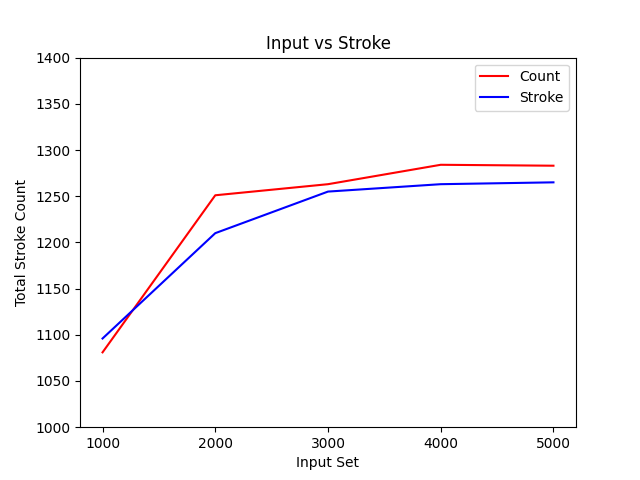
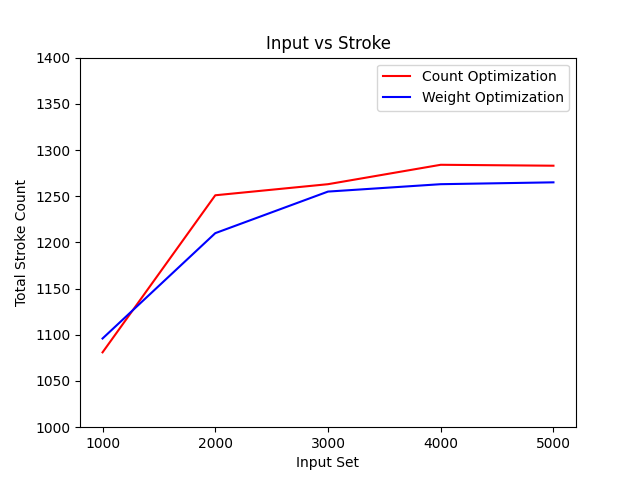
graph input vs missing rad - update input stroke label

Changed region(s): [[0.6562, 0.125, 0.875, 0.2188], [0.5938, 0.1562, 0.625, 0.2188]]

diff --git a/plot.py b/plot.py
@@ -53,6 +53,7 @@ plt.show()
 '''
 
 # input vs stroke
+'''
 print("count opt stroke:  " + str(list(map(lambda x:x[0][2], data[0])))) # data[0] = count opt
 print("weight opt stroke: " + str(list(map(lambda x:x[0][2], data[1]))) + "\n") # data[1] = weight opt
 
@@ -60,10 +61,27 @@ plt.plot(list(map(lambda x:str(x[0][0][0]), data[0])), list(map(lambda x:x[0][2]
 plt.plot(list(map(lambda x:str(x[0][0][0]), data[1])), list(map(lambda x:x[0][2], data[1])), color="#0000ff") # data[1] = weight opt
 plt.yticks(range(1000, 1401, 50))
 plt.title("Input vs Stroke")
-plt.legend(["Count", "Stroke"])
+plt.legend(["Count Optimization", "Weight Optimization"])
 plt.xlabel("Input Set")
 plt.ylabel("Total Stroke Count")
 
 plt.savefig("graphs/input_stroke.png")
 plt.show()
+'''
 
+# input vs missing radicals
+'''
+print("count opt missing rad:  " + str(list(map(lambda x:x[0][3][0], data[0])))) # data[0] = count opt
+print("weight opt missing rad: " + str(list(map(lambda x:x[0][3][0], data[1]))) + "\n") # data[1] = weight opt
+
+plt.plot(list(map(lambda x:str(x[0][0][0]), data[0])), list(map(lambda x:x[0][3][0], data[0])), color="#ff000088") # data[0] = count opt
+plt.plot(list(map(lambda x:str(x[0][0][0]), data[1])), list(map(lambda x:x[0][3][0], data[1])), color="#0000ff88") # data[1] = weight opt
+plt.yticks(range(0, 50, 10))
+plt.title("Input vs Missing Radicals")
+plt.legend(["Count Optimization", "Stroke Optimization"])
+plt.xlabel("Input Set")
+plt.ylabel("Missing Radicals Count")
+
+plt.savefig("graphs/input_missing_radicals.png")
+plt.show()
+'''
